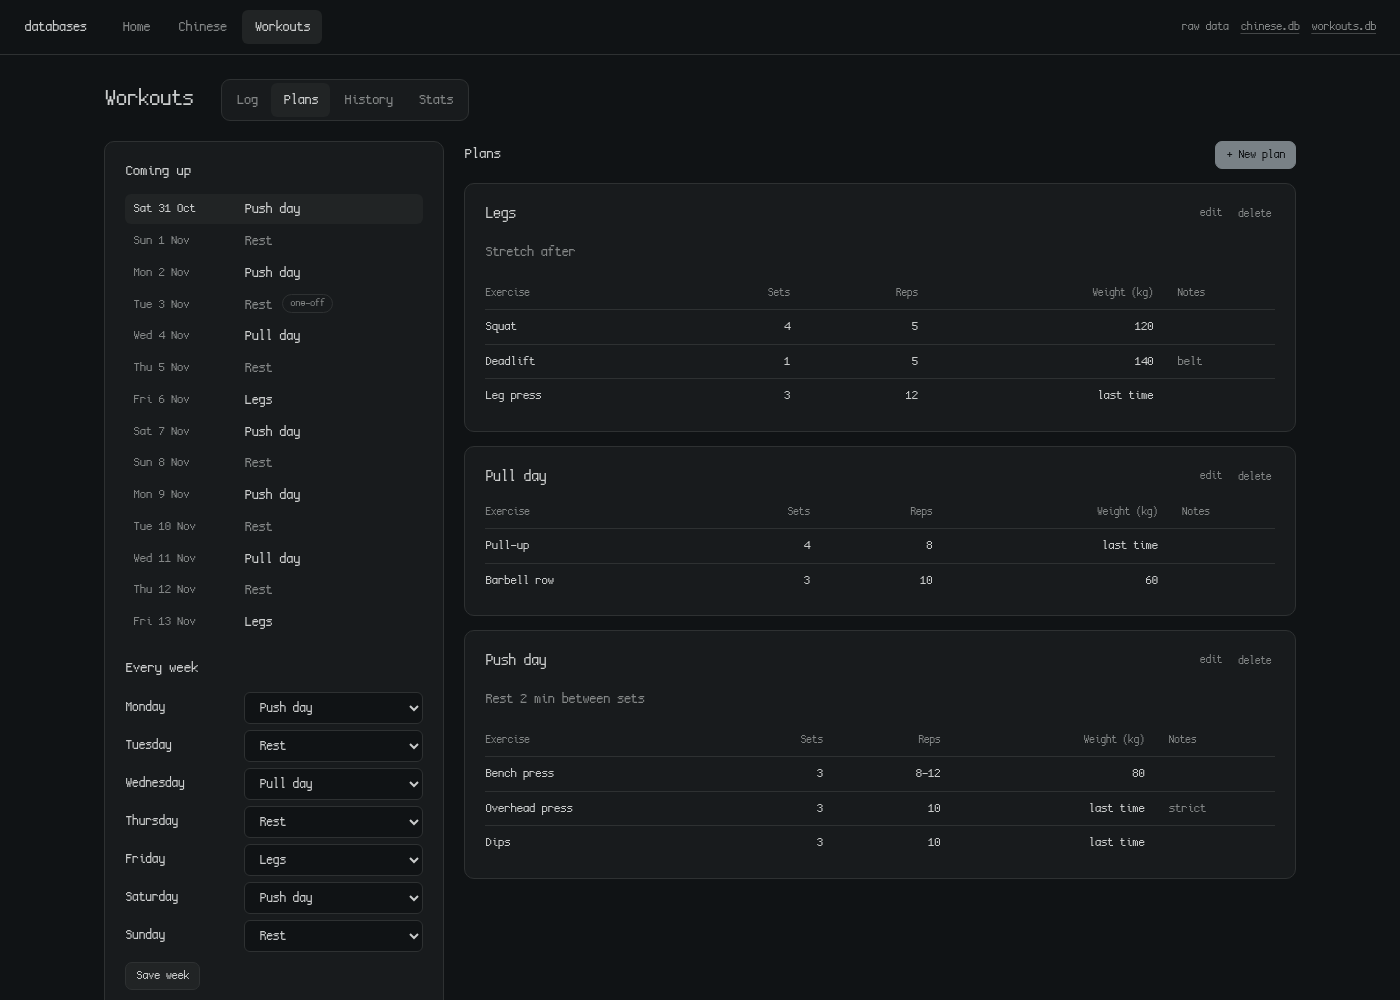
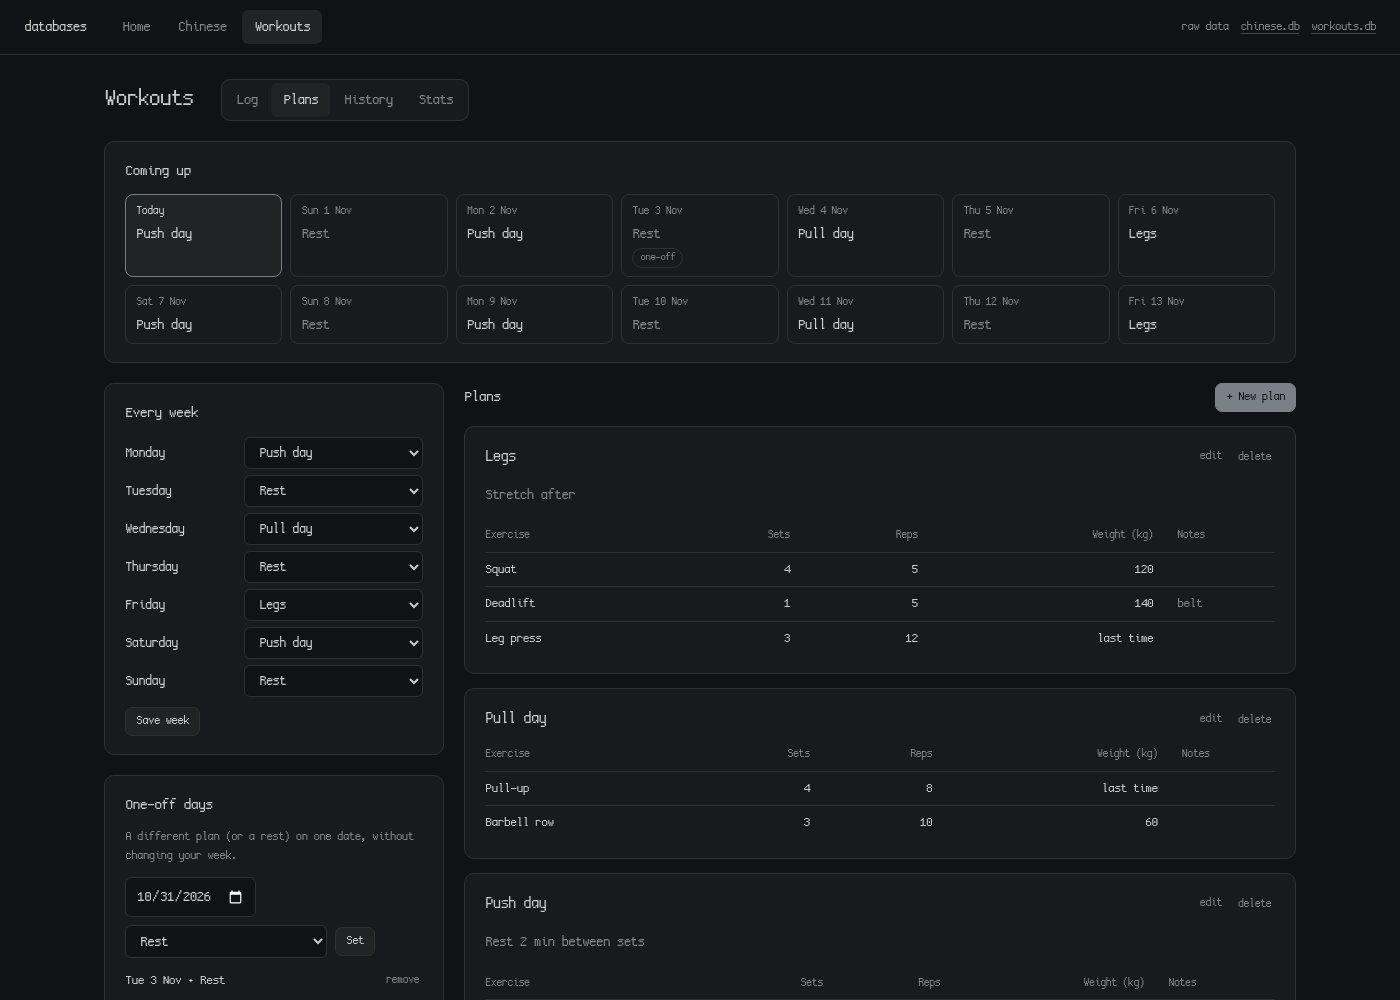
Plans tab: Coming up in its own panel, apart from the weekly schedule

diff --git a/static/app.css b/static/app.css
@@ -373,15 +373,29 @@ tbody tr:last-child td { border-bottom: 0; }
 /* --- Workout plans ---------------------------------------------------------------- */
 
 .plans-layout { display: grid; grid-template-columns: minmax(280px, 340px) minmax(0, 1fr); gap: 20px; align-items: start; }
+.schedule-col { display: flex; flex-direction: column; gap: 20px; }
 .schedule { display: flex; flex-direction: column; gap: 12px; }
-.schedule h2 { margin: 8px 0 0; }
-.schedule h2:first-child { margin-top: 0; }
+.schedule h2 { margin: 0; }
 .small-print { font-size: 0.85rem; margin: 0; }
-.upcoming-days { list-style: none; margin: 0; padding: 0; display: grid; gap: 2px; }
-.upcoming-days li { display: flex; align-items: center; gap: 10px; padding: 4px 8px; border-radius: 6px; }
-.upcoming-days li.today { background: var(--surface-2); }
-.upcoming-days li a { width: 7.5em; color: var(--muted); text-decoration: none; font-size: 0.9rem; }
-.upcoming-days li.today a { color: var(--text); }
+.coming-up { margin-bottom: 20px; }
+.upcoming-days { list-style: none; margin: 0; padding: 0; display: grid; grid-template-columns: repeat(7, minmax(0, 1fr)); gap: 8px; }
+.upcoming-days a {
+  display: flex;
+  flex-direction: column;
+  gap: 2px;
+  height: 100%;
+  padding: 8px 10px;
+  border-radius: 8px;
+  border: 1px solid var(--border);
+  text-decoration: none;
+}
+.upcoming-days a:hover { border-color: var(--axis); }
+.upcoming-days li.today a { background: var(--surface-2); border-color: var(--accent); }
+.upcoming-days .when { font-size: 0.8rem; color: var(--muted); }
+.upcoming-days li.today .when { color: var(--text); }
+.upcoming-days .what { font-weight: 700; overflow: hidden; text-overflow: ellipsis; white-space: nowrap; }
+.upcoming-days .what.rest { font-weight: 400; color: var(--muted); }
+.upcoming-days .badge { margin-top: 2px; }
 .week-form { display: grid; gap: 6px; }
 .week-row { flex-direction: row; align-items: center; justify-content: space-between; gap: 10px; color: var(--text); font-size: 0.95rem; }
 .week-row select { width: 60%; font-size: 0.95rem; }
@@ -416,6 +430,10 @@ tbody tr:last-child td { border-bottom: 0; }
 .btn:disabled { opacity: 0.4; cursor: default; }
 .plan-rest { margin: 6px 0 12px; }
 
+@media (max-width: 1000px) {
+  .upcoming-days { grid-template-columns: repeat(4, minmax(0, 1fr)); }
+}
 @media (max-width: 760px) {
   .plans-layout { grid-template-columns: 1fr; }
+  .upcoming-days { grid-template-columns: repeat(2, minmax(0, 1fr)); }
 }

diff --git a/templates/app_workouts.html b/templates/app_workouts.html
@@ -142,19 +142,24 @@
   <datalist id="plan-exercise-list">{% for n in exercise_names %}<option>{{ n }}</option>{% endfor %}</datalist>
 </form>
 {% else %}
-<div class="plans-layout">
-  <section class="panel schedule">
-    <h2>Coming up</h2>
-    <ol class="upcoming-days">
-      {% for u in upcoming %}
-      <li{% if loop.first %} class="today"{% endif %}>
-        <a href="/-/workouts?date={{ u.date }}">{{ u.date|nice_date }}</a>
-        <span class="{{ '' if u.plan else 'muted' }}">{{ u.plan or "Rest" }}</span>
+<section class="panel coming-up">
+  <h2>Coming up</h2>
+  <ol class="upcoming-days">
+    {% for u in upcoming %}
+    <li{% if loop.first %} class="today"{% endif %}>
+      <a href="/-/workouts?date={{ u.date }}">
+        <span class="when">{{ "Today" if loop.first else u.date|nice_date }}</span>
+        <span class="what{{ '' if u.plan else ' rest' }}">{{ u.plan or "Rest" }}</span>
         {% if u.source == "one-off" %}<span class="badge">one-off</span>{% endif %}
-      </li>
-      {% endfor %}
-    </ol>
+      </a>
+    </li>
+    {% endfor %}
+  </ol>
+</section>
 
+<div class="plans-layout">
+  <div class="schedule-col">
+  <section class="panel schedule">
     <h2>Every week</h2>
     <form class="week-form" method="post" action="/-/workouts/schedule/week">
       {% for key, label, pid in weekly %}
@@ -164,7 +169,9 @@
       {% endfor %}
       <button class="btn small">Save week</button>
     </form>
+  </section>
 
+  <section class="panel schedule">
     <h2>One-off days</h2>
     <p class="muted small-print">A different plan (or a rest) on one date, without changing your week.</p>
     <form class="inline-form" method="post" action="/-/workouts/schedule/date">
@@ -190,6 +197,7 @@
     </ul>
     {% endif %}
   </section>
+  </div>
 
   <section class="plans">
     <div class="plans-head">
